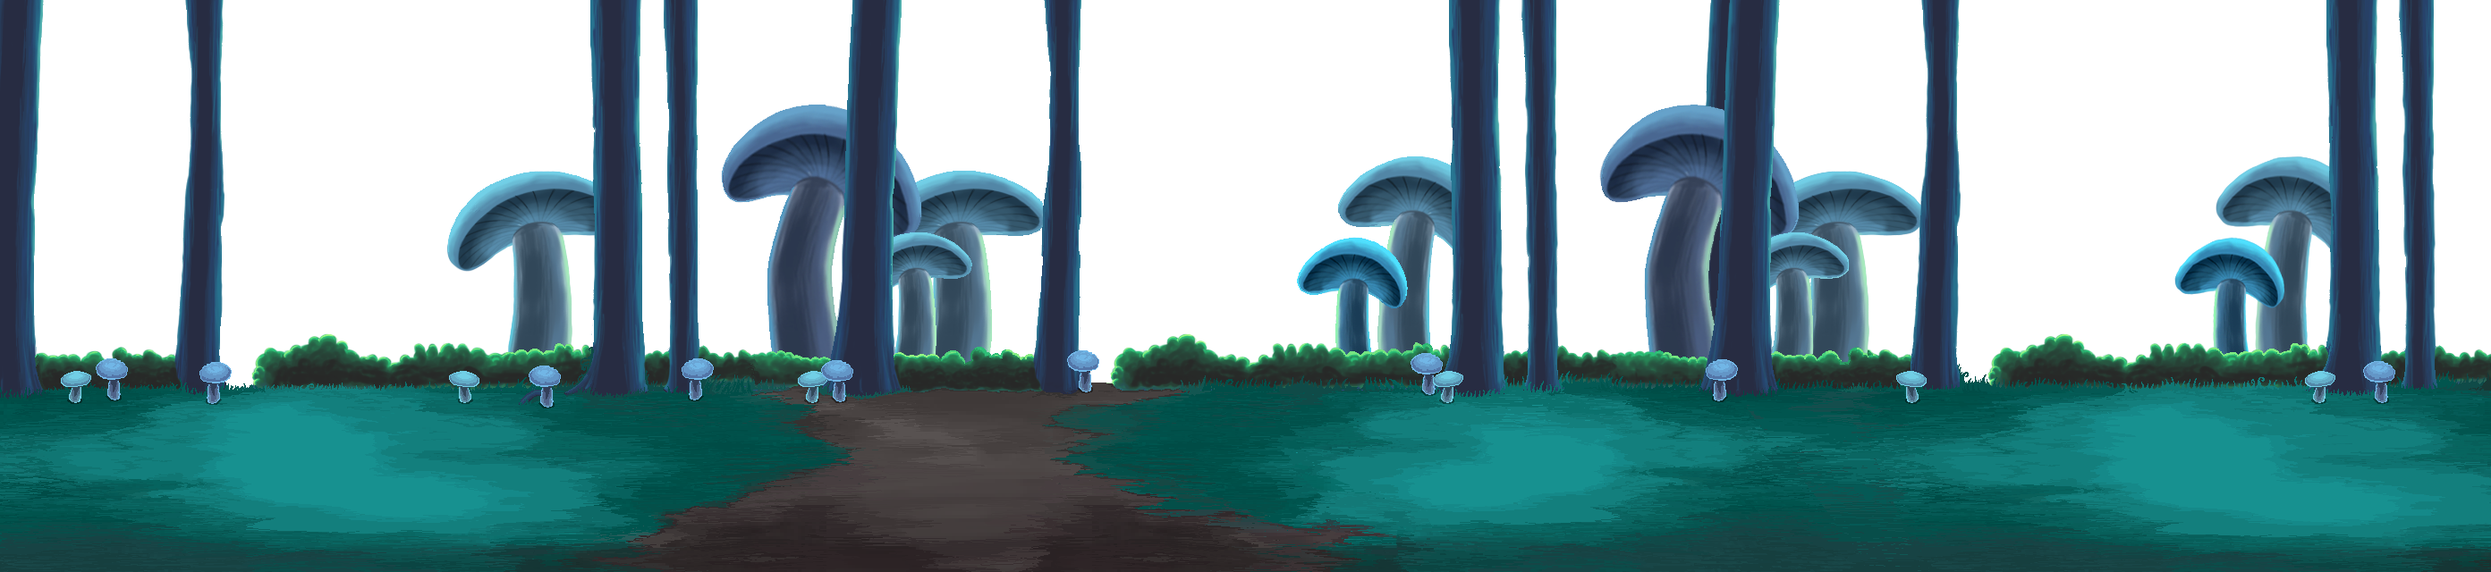
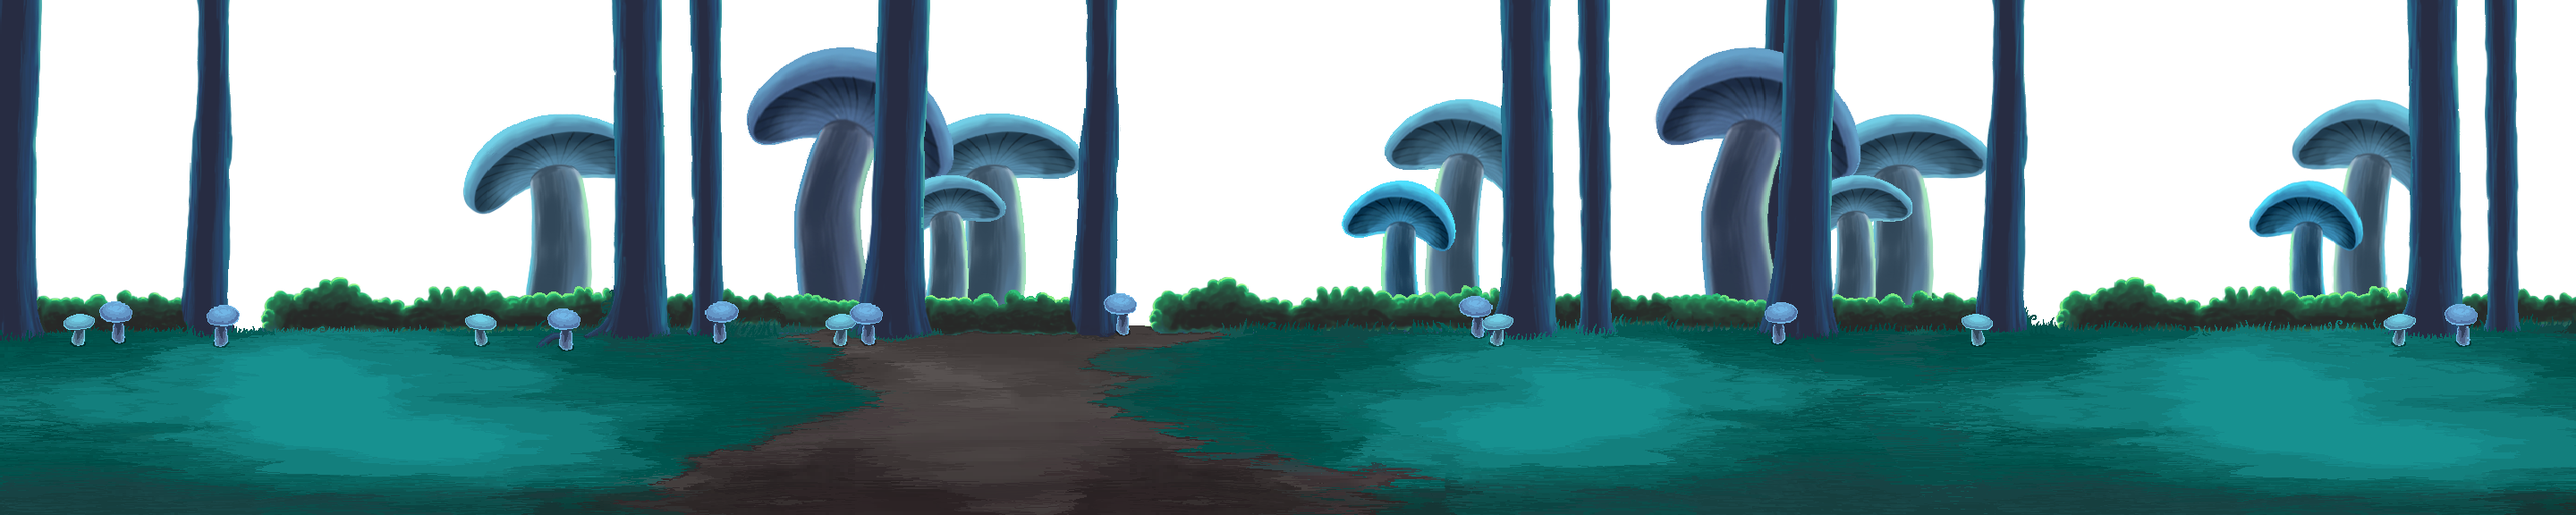
wonderland v.0.0.32 // 테스트

diff --git a/gfw/gfw.js b/gfw/gfw.js
@@ -6,10 +6,13 @@ function onGameInit()
     debugSystem.debugMode = false;
     //리소스 프리로딩
     //로딩 화면 이미지
-    resourcePreLoader.AddImage("img/loading.jpg");
+    resourcePreLoader.AddImage("img/loading.png");
     resourcePreLoader.AddImage("img/loading_loginbutton_01.png");
     resourcePreLoader.AddImage("img/loading_loginbutton_01_down.png");
     resourcePreLoader.AddImage("img/loading_loginbutton_02.png");
+    resourcePreLoader.AddImage("img/loading_loginbutton_02_down.png");
+
+    resourcePreLoader.AddImage("img/error.png");
     //맵 화면 이미지
     resourcePreLoader.AddImage("img/settingbutton.png");
     resourcePreLoader.AddImage("img/settingbutton_down.png");
@@ -26,8 +29,15 @@ function onGameInit()
     resourcePreLoader.AddImage("img/select_gamebutton_off.png");
     resourcePreLoader.AddImage("img/select_gamescroll.png");
     resourcePreLoader.AddImage("img/select_gamescroll_mask.png");
+    resourcePreLoader.AddImage("img/select_gamescroll_shop.png");
+    resourcePreLoader.AddImage("img/select_gamescroll_shop_down.png");
+    resourcePreLoader.AddImage("img/select_gamescroll_stage02.png");
+    resourcePreLoader.AddImage("img/select_gamescroll_stage02_down.png");
+    resourcePreLoader.AddImage("img/select_gamescroll_stage03.png");
+    resourcePreLoader.AddImage("img/select_gamescroll_stage03_down.png");
     resourcePreLoader.AddImage("img/select_gamescroll_startbutton.png");
     resourcePreLoader.AddImage("img/select_gamescroll_startbutton_down.png");
+
     resourcePreLoader.AddImage("img/select_datascroll.png");
     resourcePreLoader.AddImage("img/select_datascroll_mask.png");
     resourcePreLoader.AddImage("img/select_datascroll_receivebutton_on.png");
@@ -44,12 +54,16 @@ function onGameInit()
     resourcePreLoader.AddImage("img/game_background_01.png");
     resourcePreLoader.AddImage("img/game_background_02.png");
     resourcePreLoader.AddImage("img/game_background_03.png");
+    resourcePreLoader.AddImage("img/game_background_leftside.png");
+    resourcePreLoader.AddImage("img/game_background_rightside.png");
     resourcePreLoader.AddImage("img/game_player_left.png");
     resourcePreLoader.AddImage("img/game_player_right.png");
     resourcePreLoader.AddImage("img/game_enemy_dia_left.png");
     resourcePreLoader.AddImage("img/game_enemy_dia_left_dead.png");
+    resourcePreLoader.AddImage("img/game_enemy_dia_left_attack.png");
     resourcePreLoader.AddImage("img/game_enemy_dia_right.png");
     resourcePreLoader.AddImage("img/game_enemy_dia_right_dead.png");
+    resourcePreLoader.AddImage("img/game_enemy_dia_right_attack.png");
     resourcePreLoader.AddImage("img/shadow.png");
     resourcePreLoader.AddImage("img/game_item_coin.png");
     resourcePreLoader.AddImage("img/game_ward.png");
@@ -57,8 +71,7 @@ function onGameInit()
     resourcePreLoader.AddImage("img/skillspelling_right.png");
     resourcePreLoader.AddImage("img/game_fireball_left.png");
     resourcePreLoader.AddImage("img/game_fireball_right.png");
-    resourcePreLoader.AddImage("img/game_knockback_left.png");
-    resourcePreLoader.AddImage("img/game_knockback_right.png");
+    resourcePreLoader.AddImage("img/game_enemy_knockback.png");
     resourcePreLoader.AddImage("img/game_flame_left.png");
     resourcePreLoader.AddImage("img/game_flame_right.png");
     
@@ -66,6 +79,15 @@ function onGameInit()
     resourcePreLoader.AddImage("img/message_exp.png");
     resourcePreLoader.AddImage("img/message_level_up.png");
     resourcePreLoader.AddImage("img/message_score.png");
+
+    resourcePreLoader.AddImage("img/game_notify_enemydia_left.png");
+    resourcePreLoader.AddImage("img/game_notify_enemydia_right.png");
+    resourcePreLoader.AddImage("img/game_notify_item_left.png");
+    resourcePreLoader.AddImage("img/game_notify_item_right.png");
+    resourcePreLoader.AddImage("img/game_notify_ward_left.png");
+    resourcePreLoader.AddImage("img/game_notify_ward_right.png");
+    resourcePreLoader.AddImage("img/game_notify_ward_left_beat.png");
+    resourcePreLoader.AddImage("img/game_notify_ward_right_beat.png");
     
     //게임 UI 이미지
     resourcePreLoader.AddImage("img/game_UI_leftbutton.png");
@@ -97,7 +119,7 @@ function onGameInit()
     
     // 게임 초기 시작 상태 설정
     after_loading_state = new TitleState(); // 나중에 타이틀 스테이트로 바꿀것
-    setInterval( gameLoop, 1000 / GAME_FPS );
+    gameInterval = setInterval( gameLoop, 1000 / GAME_FPS );
 }
 
 

diff --git a/gfw/ResourcePreLoader.js b/gfw/ResourcePreLoader.js
@@ -58,39 +58,35 @@ function onLoadImageResourceComplete()
 
 function LoadingState()
 {
-	this.loadingTimer = new Timer();
-	this.developer = new Image();
-	this.developer.src = "img/developer.png";
-	this.imgLoading = new Image(); 
-	this.imgLoading.src = "img/loading.jpg";
+    this.loadingTimer = new Timer();
+    this.developer = new Image();
+    this.developer.src = "img/developer.png";
+    this.imgLoading = new Image(); 
+    this.imgLoading.src = "img/loading.png";
     return this;
 }
 
 LoadingState.prototype.Render = function( )
 {
-    var theCanvas = document.getElementById("GameCanvas");
-    var Context  = theCanvas.getContext("2d");
-    
     var totalResourceCount = resourcePreLoader.intAllResourceCount + soundSystem.intAllResourceCount;
     var nowCompleteResourceCount = resourcePreLoader.nowResourceLoadedCount + soundSystem.nowResourceLoadedCount;
     
-	if(this.loadingTimer.nowFrame < 3000){
-		Context.drawImage(this.developer, 0, 0);
-	} else if( (this.loadingTimer.nowFrame>=3000)&&(this.loadingTimer.nowFrame < 7000) ) {
-Context.drawImage(this.imgLoading, 0, 0);
-		Context.fillStyle    = "#ffffff";
-	    Context.font         = '28px Arial'; 
-		Context.textBaseline = "top";
-		Context.fillText( "Now Loading..." + 100 * nowCompleteResourceCount / totalResourceCount+" %", 31, 570 );
-	}
-	
+    if(this.loadingTimer.nowFrame < 3000){
+        Context.drawImage(this.developer, 0, 0);
+    } else if( (this.loadingTimer.nowFrame>=3000)&&(this.loadingTimer.nowFrame < 7000) ) {
+        Context.drawImage(this.imgLoading, 0, 0);
+        Context.fillStyle    = "#ffffff";
+        Context.font         = '28px "ShowcardGothic"'; 
+        Context.textBaseline = "top";
+        Context.fillText( "Now Loading..." + (100 * nowCompleteResourceCount / totalResourceCount).toFixed(1)+" %", 31, 470 );
+    }
+    
 };
 
 LoadingState.prototype.Update = function( )
 {
-    // 리소스를 모두 로딩했다면 게임 타이틀 상태로 전환한다.
-    //if( resourcePreLoader.isLoadComplete && soundSystem.isLoadComplete )
-    if(this.loadingTimer.nowFrame > 7000)
+    // 리소스를 모두 로딩했다면 게임 타이틀 상태로 전환
+    if( (this.loadingTimer.nowFrame>7000)&&resourcePreLoader.isLoadComplete&&soundSystem.isLoadComplete )
     {
         ChangeGameState( after_loading_state );
     }    

diff --git a/WL_Title.js b/WL_Title.js
@@ -1,5 +1,5 @@
 function TitleState(){
-	this.imgLoading = resourcePreLoader.GetImage("img/loading.jpg");
+	this.imgLoading = resourcePreLoader.GetImage("img/loading.png");
 	this.flagLogin1 = false;
 	this.imgLogin1 = resourcePreLoader.GetImage("img/loading_loginbutton_01.png");
 	this.imgLogin1Down = resourcePreLoader.GetImage("img/loading_loginbutton_01_down.png");
@@ -13,9 +13,6 @@ TitleState.prototype.Init = function(){
 };
 
 TitleState.prototype.Render= function(){
-	var theCanvas = document.getElementById("GameCanvas");
-	var Context = theCanvas.getContext("2d");
-	
 	Context.globalAlpha = this.alpha/255;
 	Context.drawImage(this.imgLoading, 0, 0);
 	if(this.flagLogin1)

diff --git a/gfw/GameFramework.js b/gfw/GameFramework.js
@@ -32,9 +32,12 @@ function Update()
 function Render()
 {
   // 그리기
-  var theCanvas = document.getElementById("GameCanvas");
-  var Context  = theCanvas.getContext("2d");
+  theCanvas = document.getElementById("GameCanvas");
+  Context  = theCanvas.getContext("2d");
 
+  Context.fillStyle = "#000000";
+  Context.fillRect(0, 0, 960, 640); 
+  
   game_state.Render();
   
   // 각종 테스트 용도

diff --git a/index.html b/index.html
@@ -30,7 +30,7 @@
 		
 	</head>
 	<body bgcolor="#000000">
-		<canvas id="GameCanvas" width="960" height="640" style="position:absolute; top:0px; left:0px">
+		<canvas id="GameCanvas" width="960" height="576" style="position:absolute; top:0px; left:0px">
 			HTML5 Canvas를 지원하지 않습니다.
 		</canvas>
 	</body>
